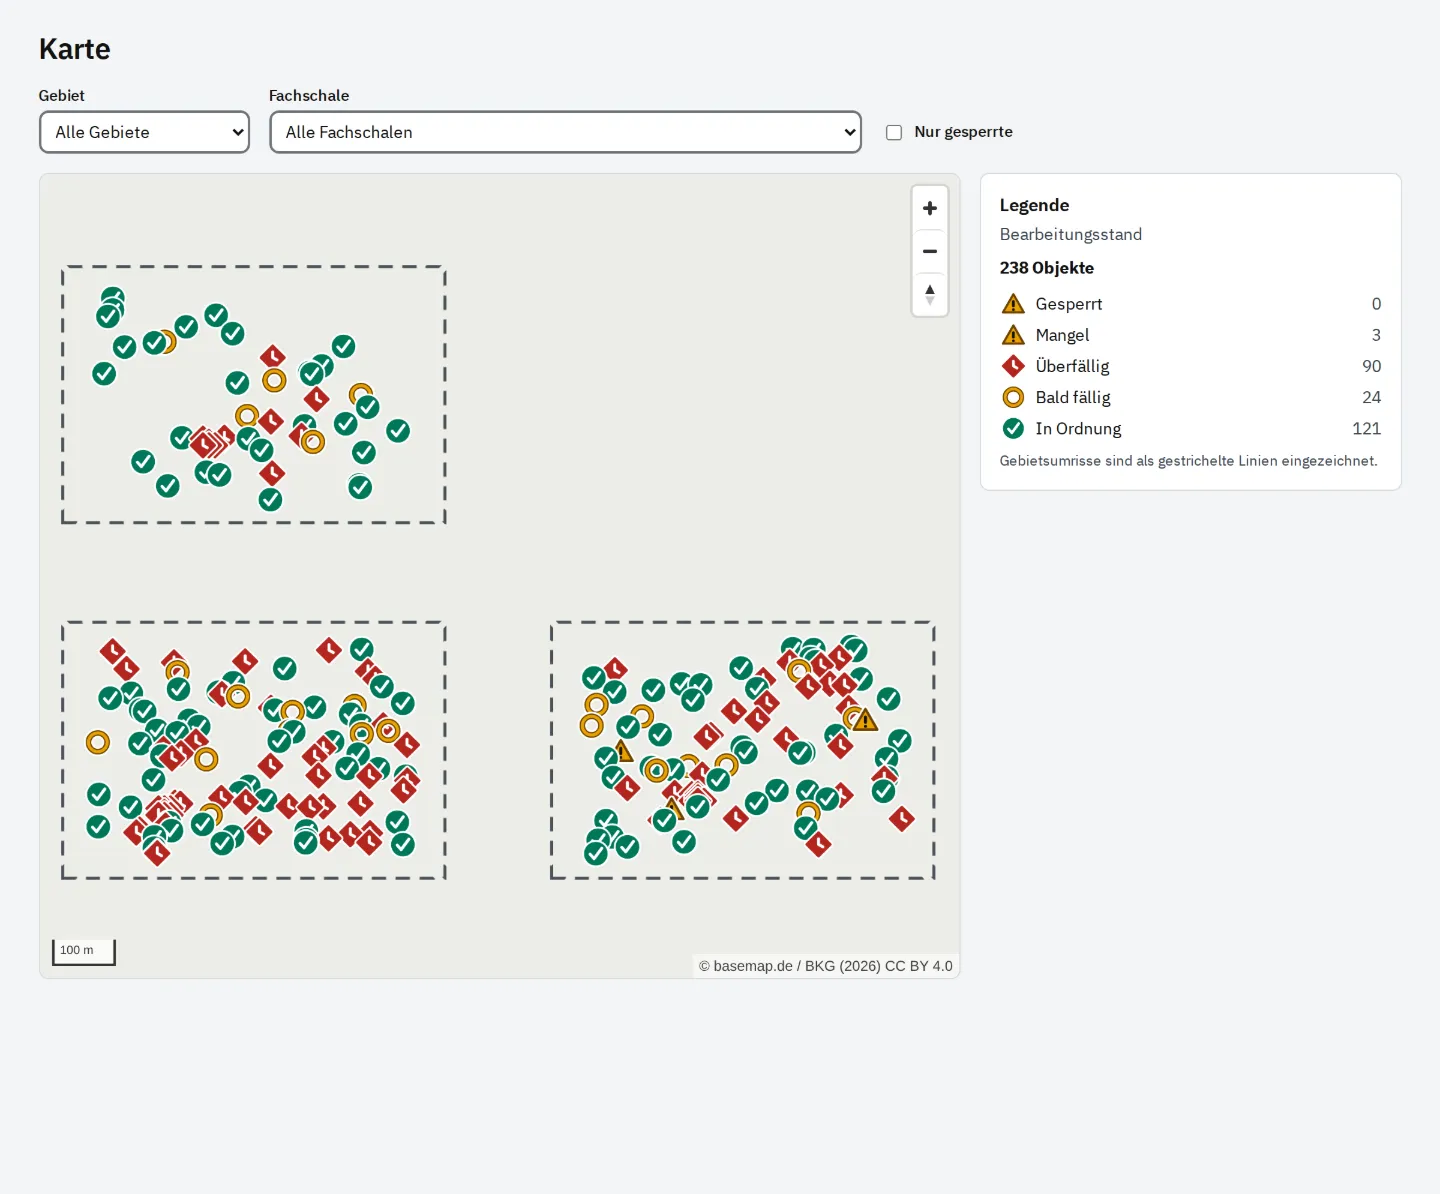
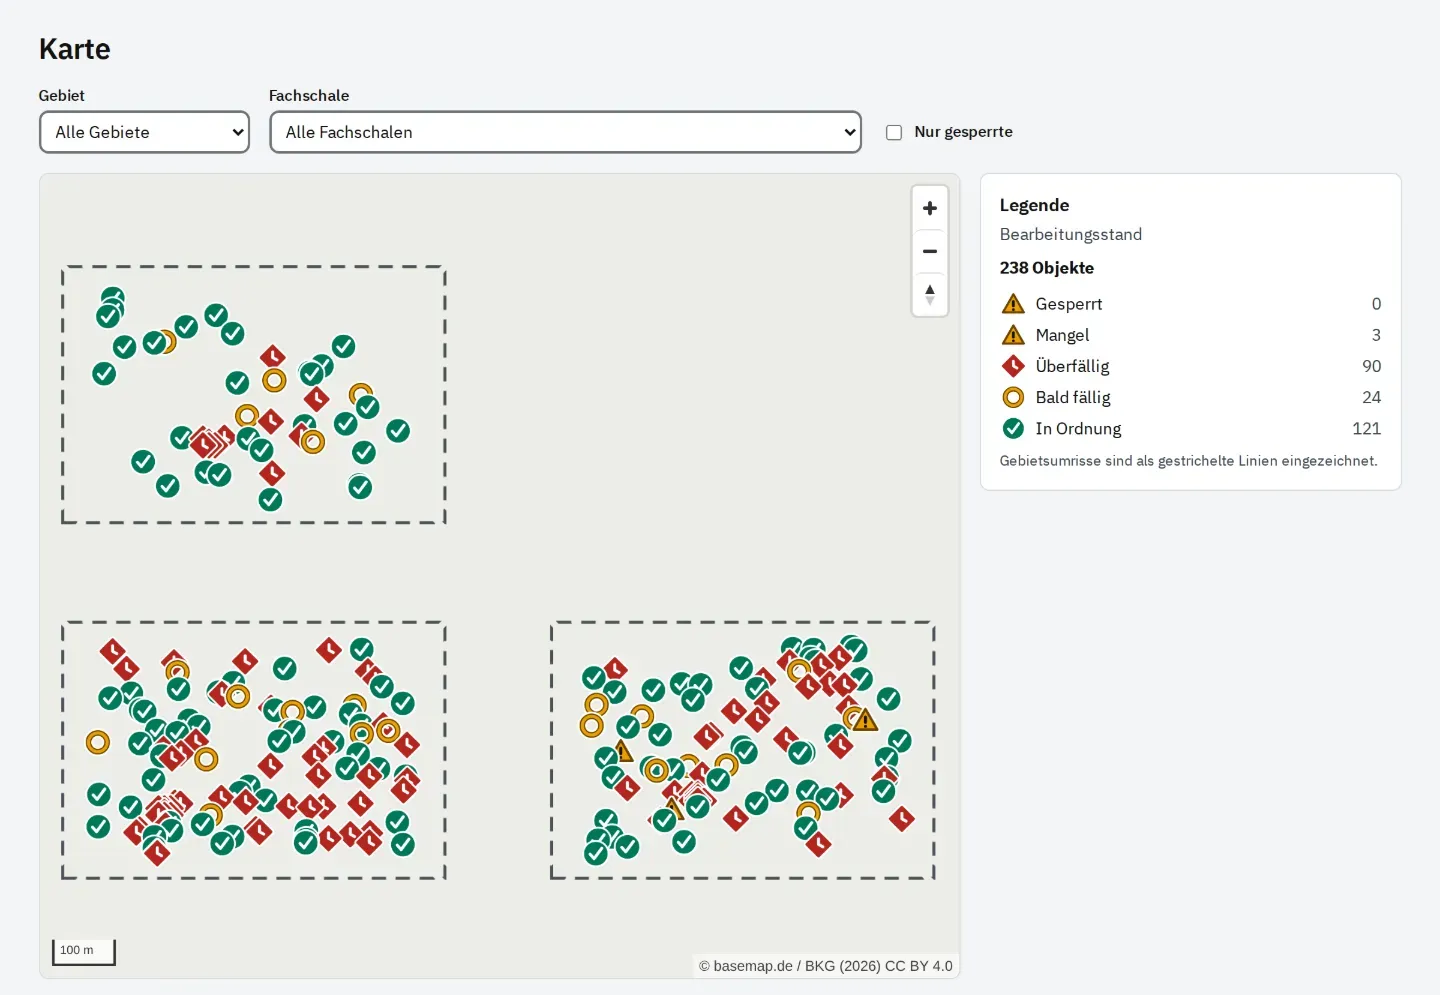
Kartenbild ohne Leerfläche

diff --git a/index.html b/index.html
@@ -429,7 +429,7 @@ footer p{margin:0 0 .4rem}
       <p class="note">Fachschalen bilden Richtlinien und Normen ab, ersetzen sie aber nicht. Intervalle und Wertelisten sind Vorschläge, die Sie vor dem Einsatz fachlich prüfen.</p>
 
       <div class="pair">
-        <figure class="shot"><div class="shot-frame"><picture><source media="(max-width: 760px)" srcset="bilder/karte-720.webp" width="720" height="597"><img src="bilder/karte-1440.webp" width="1440" height="1194" alt="Karte ohne gewähltes Objekt: Filter Gebiet und Fachschale, 238 Objekte der Demodaten als Statussymbole in drei gestrichelt umrandeten Gebieten, daneben die Legende mit Anzahlen je Stand" loading="lazy" decoding="async"></picture></div><figcaption>Karte mit Bearbeitungsstand: gesperrt, Mangel, überfällig, bald fällig, in Ordnung. Testaufnahme ohne Hintergrundkarte, im Betrieb liegt basemap.de darunter.</figcaption></figure>
+        <figure class="shot"><div class="shot-frame"><picture><source media="(max-width: 760px)" srcset="bilder/karte-720.webp" width="720" height="498"><img src="bilder/karte-1440.webp" width="1440" height="995" alt="Karte ohne gewähltes Objekt: Filter Gebiet und Fachschale, 238 Objekte der Demodaten als Statussymbole in drei gestrichelt umrandeten Gebieten, daneben die Legende mit Anzahlen je Stand" loading="lazy" decoding="async"></picture></div><figcaption>Karte mit Bearbeitungsstand: gesperrt, Mangel, überfällig, bald fällig, in Ordnung. Testaufnahme ohne Hintergrundkarte, im Betrieb liegt basemap.de darunter.</figcaption></figure>
       </div>
 
       <h3 class="roles-title">Wer was macht</h3>
